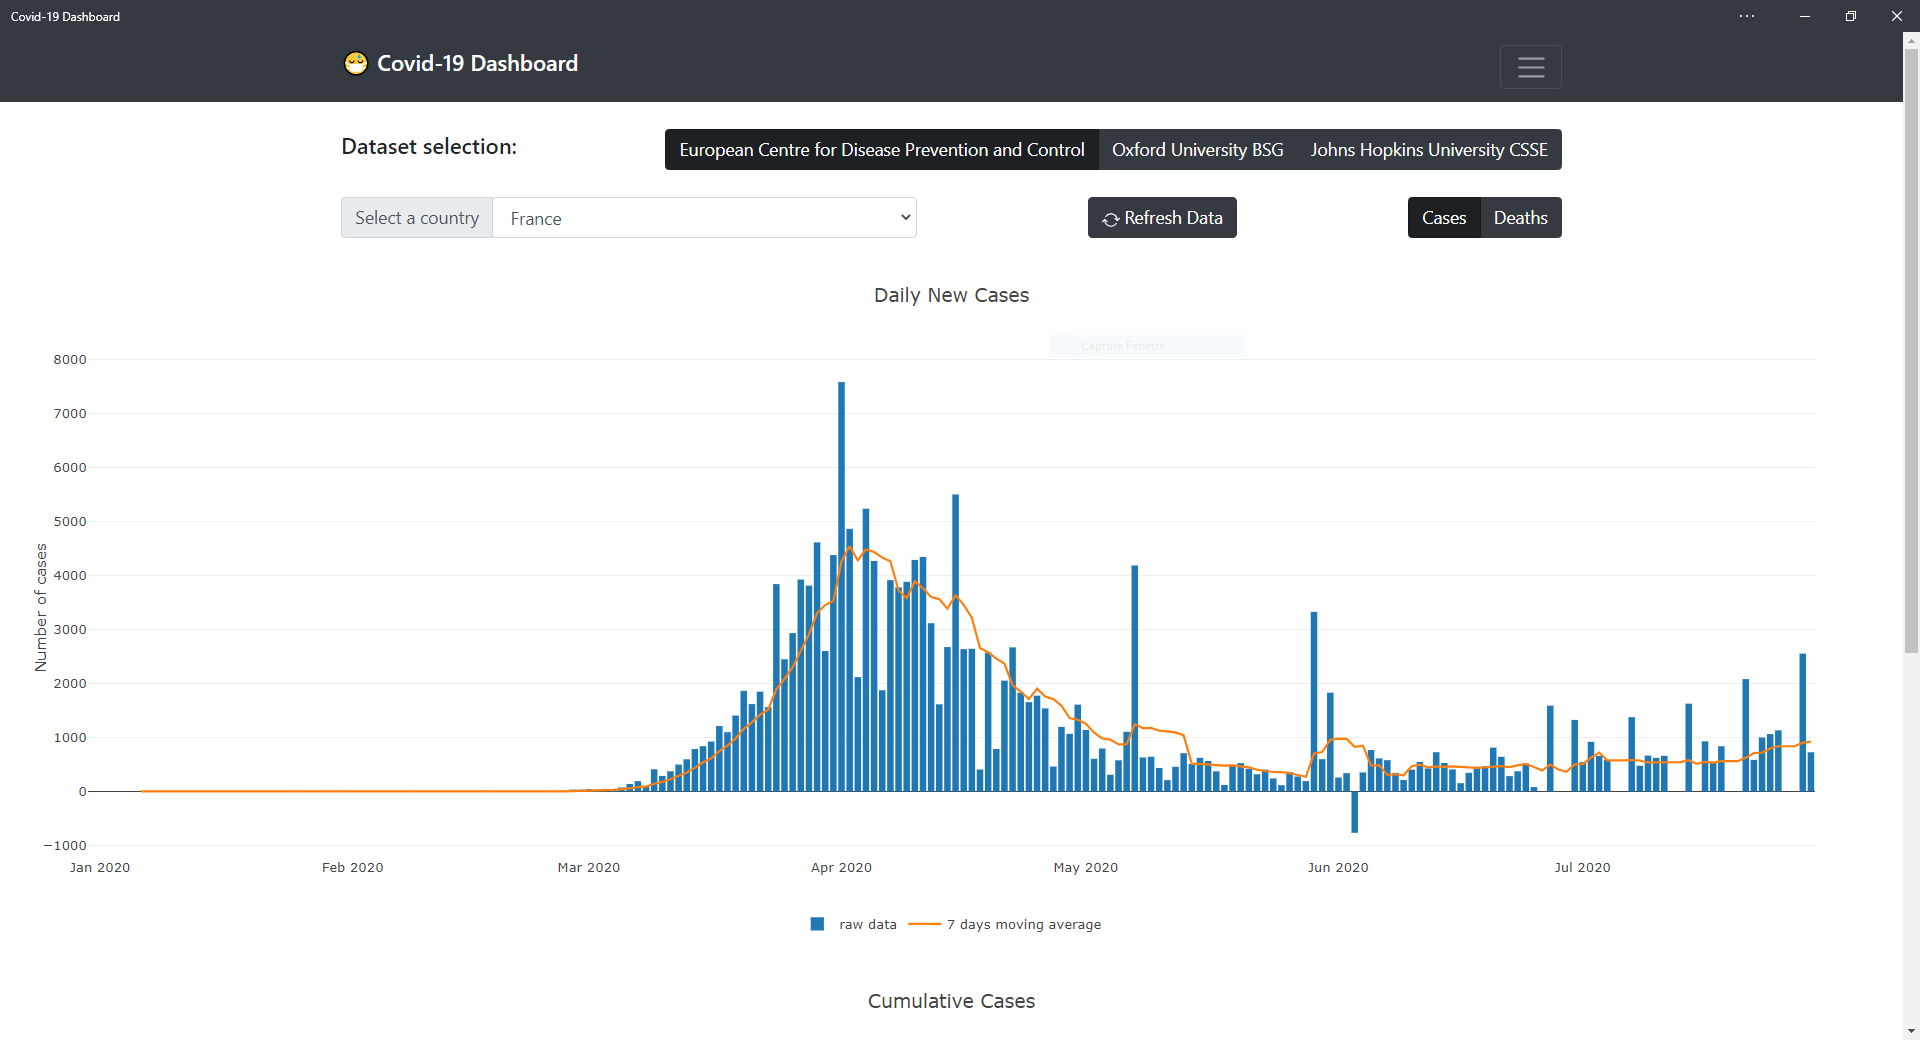
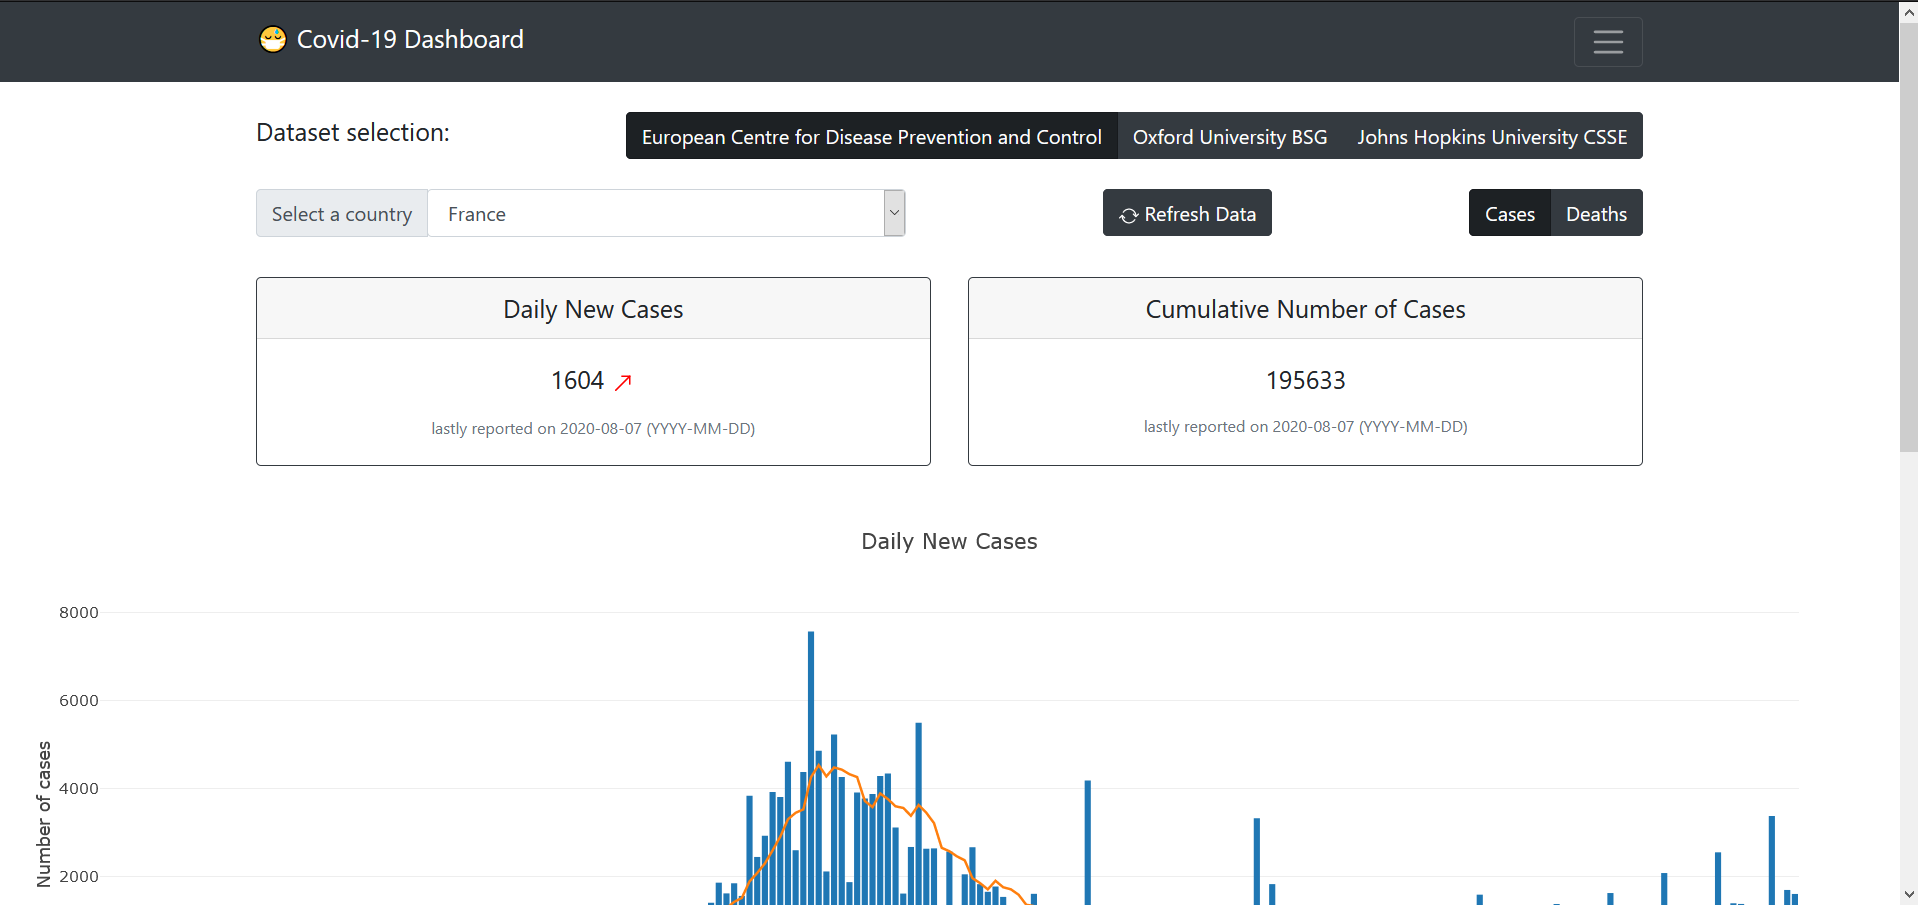
Minor Updates

diff --git a/docs/static-dashboard.js b/docs/static-dashboard.js
@@ -293,23 +293,30 @@ function progressBar(){
 
 function updateNumbers(mydata){
     let end = mydata[0].length - 1;
-    cases = mydata[1][end];
-    cumCases = mydata[5][end];
-    deaths = mydata[3][end];
-    cumDeaths = mydata[6][end];
-    tendencyCases = mydata[2][end] - mydata[2][end - 1];
-    tendencyDeaths = mydata[4][end] - mydata[4][end - 1];
+    let dateNumbers = mydata[0][end];
+    let cases = mydata[1][end];
+    let cumCases = mydata[5][end];
+    let deaths = mydata[3][end];
+    let cumDeaths = mydata[6][end];
+    let tendencyCases = mydata[2][end] - mydata[2][end - 1];
+    let tendencyDeaths = mydata[4][end] - mydata[4][end - 1];
+    document.getElementById('date1').innerText = 'lastly reported on ' + dateNumbers.toString() + " (YYYY-MM-DD)";
+    document.getElementById('date2').innerText = 'lastly reported on ' + dateNumbers.toString() + " (YYYY-MM-DD)";
     let arrowCases;
     if (tendencyCases > 0.1){
         arrowCases = "<svg width='1em' height='1em' viewBox='0 0 16 16' class='bi bi-arrow-up-right' fill='red' xmlns='http://www.w3.org/2000/svg'><path fill-rule='evenodd' d='M6.5 4a.5.5 0 0 1 .5-.5h5a.5.5 0 0 1 .5.5v5a.5.5 0 0 1-1 0V4.5H7a.5.5 0 0 1-.5-.5z'/><path fill-rule='evenodd' d='M12.354 3.646a.5.5 0 0 1 0 .708l-9 9a.5.5 0 0 1-.708-.708l9-9a.5.5 0 0 1 .708 0z'/></svg>";
     } else if (tendencyCases < -0.1){
         arrowCases = "<svg width='1em' height='1em' viewBox='0 0 16 16' class='bi bi-arrow-down-right' fill='green' xmlns='http://www.w3.org/2000/svg'><path fill-rule='evenodd' d='M12 7.5a.5.5 0 0 1 .5.5v5a.5.5 0 0 1-.5.5H7a.5.5 0 0 1 0-1h4.5V8a.5.5 0 0 1 .5-.5z'/><path fill-rule='evenodd' d='M2.646 3.646a.5.5 0 0 1 .708 0l9 9a.5.5 0 0 1-.708.708l-9-9a.5.5 0 0 1 0-.708z'/></svg>";
+    } else if (tendencyCases == 0){
+        arrowCases = "";
     }
     let arrowDeaths;
     if (tendencyDeaths > 0.1){
         arrowDeaths = "<svg width='1em' height='1em' viewBox='0 0 16 16' class='bi bi-arrow-up-right' fill='red' xmlns='http://www.w3.org/2000/svg'><path fill-rule='evenodd' d='M6.5 4a.5.5 0 0 1 .5-.5h5a.5.5 0 0 1 .5.5v5a.5.5 0 0 1-1 0V4.5H7a.5.5 0 0 1-.5-.5z'/><path fill-rule='evenodd' d='M12.354 3.646a.5.5 0 0 1 0 .708l-9 9a.5.5 0 0 1-.708-.708l9-9a.5.5 0 0 1 .708 0z'/></svg>";
     } else if (tendencyDeaths < -0.1){
         arrowDeaths = "<svg width='1em' height='1em' viewBox='0 0 16 16' class='bi bi-arrow-down-right' fill='green' xmlns='http://www.w3.org/2000/svg'><path fill-rule='evenodd' d='M12 7.5a.5.5 0 0 1 .5.5v5a.5.5 0 0 1-.5.5H7a.5.5 0 0 1 0-1h4.5V8a.5.5 0 0 1 .5-.5z'/><path fill-rule='evenodd' d='M2.646 3.646a.5.5 0 0 1 .708 0l9 9a.5.5 0 0 1-.708.708l-9-9a.5.5 0 0 1 0-.708z'/></svg>";
+    } else if (tendencyDeaths ==  0){
+        arrowDeaths = "";
     }
     if (choiceButton == casesButton.attr('id')){
         nbDaily.innerHTML = cases.toString() + " " + arrowCases;

diff --git a/docs/index.html b/docs/index.html
@@ -115,14 +115,14 @@
               <h5 class="card-header" id="nbDailyHeader">Daily New Cases</h5>
               <div class="card-body">
                 <h5 class="card-title" id="nbDaily">-</h5>
-                <p class="card-text"><small class="text-muted">lastly reported for one day</small></p>
+                <p class="card-text"><small class="text-muted" id="date1">lastly reported on -</small></p>
               </div>
             </div>
             <div class="card border-dark mb-3 text-center">
               <h5 class="card-header" id="nbCumHeader">Cumulative Number of Cases</h5>
               <div class="card-body">
                 <h5 class="card-title" id="nbCum">-</h5>
-                <p class="card-text"><small class="text-muted">lastly reported from the beginning</small></p>
+                <p class="card-text"><small class="text-muted" id="date2">lastly reported on -</small></p>
               </div>
             </div>
           </div>

diff --git a/docs/sw.js b/docs/sw.js
@@ -1,5 +1,5 @@
 //WARNING: in production, replace /docs/ by /Covid-Dashboard/
-const staticCacheName = 'site-static-v4'; //Don't forget to change version when modifying one of the assets
+const staticCacheName = 'site-static-v5'; //Don't forget to change version when modifying one of the assets
 const dynamicCacheName = 'site-dynamic-v2';
 const assets = [
     '/Covid-Dashboard/',
